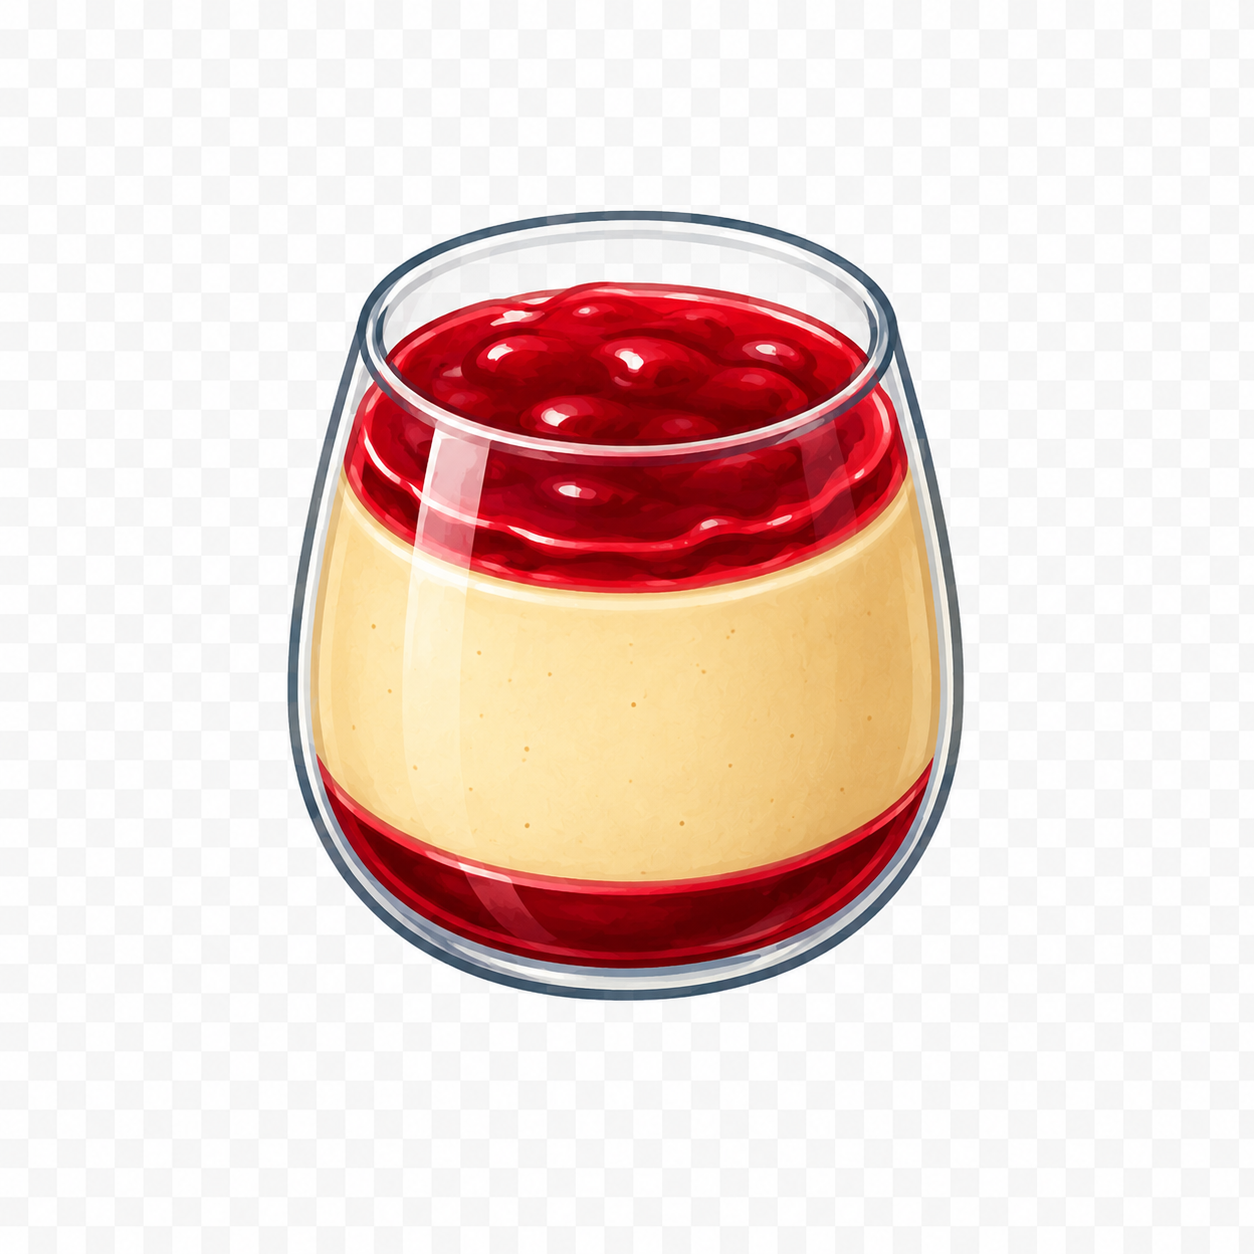
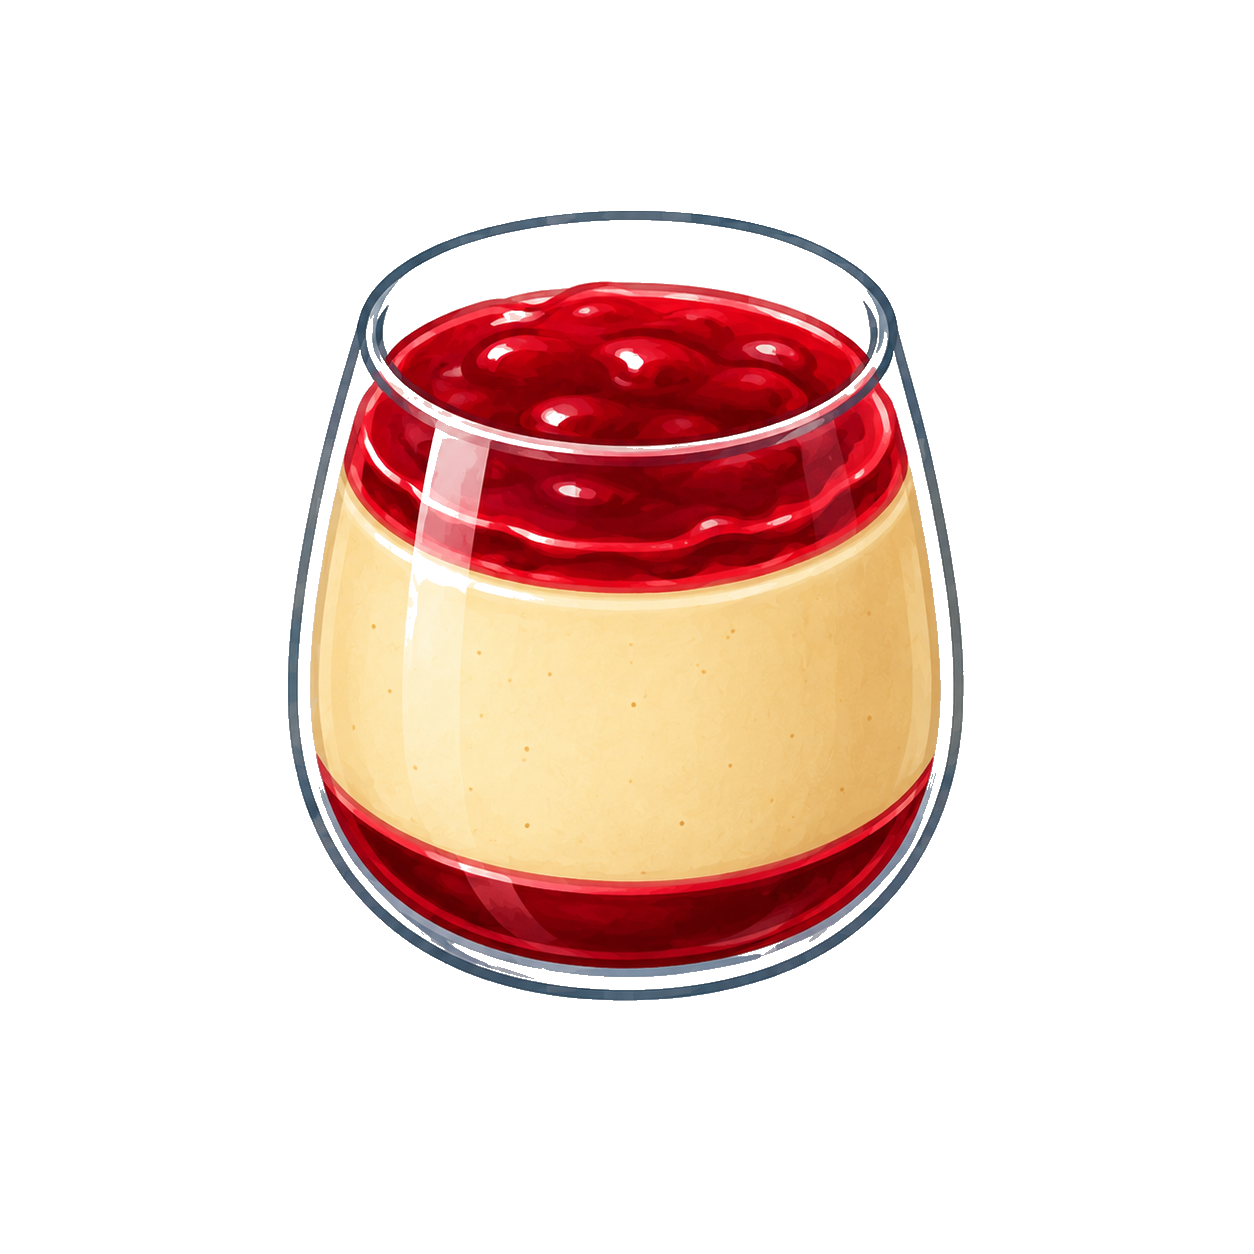
Fix game1 asset transparency: remove baked-in white/checkerboard backgrounds
All 7 game1 PNGs had hasAlpha=false (plain RGB, no alpha channel).
Backgrounds were baked as white/checkerboard pixel data, causing visible
white rectangles around every object in the game canvas.

Fix: three-pass background removal using sharp
  1. Edge flood-fill from all 4 borders (removed 71-94% of pixels)
  2. Global achromatic removal of remaining checkerboard residuals
     (pure white >248 and neutral gray 192-218)
  3. Iterative inward expansion: any bright neutral pixel adjacent to
     transparent is made transparent — clears enclosed interior regions
     (e.g. glass interior of cup above panna cotta fill)

Result: all assets are now 32-bit RGBA PNGs with proper alpha.
Objects render as clean cut-outs on the kitchen background canvas.

Also adds debug-assets.html: renders all assets on #C2185B pink
background so any remaining white rectangle would be immediately visible.

diff --git a/www/italy/debug-assets.html b/www/italy/debug-assets.html
@@ -1,0 +1,146 @@
+<!DOCTYPE html>
+<html lang="he" dir="rtl">
+<head>
+<meta charset="UTF-8">
+<meta name="viewport" content="width=device-width, initial-scale=1.0">
+<title>Debug – Asset Transparency Check</title>
+<style>
+body { margin: 0; background: #111; font-family: monospace; color: #fff; }
+h1 { text-align: center; padding: 16px; font-size: 14px; color: #aaa; letter-spacing: 2px; }
+.row { display: flex; flex-wrap: wrap; gap: 16px; justify-content: center; padding: 0 16px 32px; }
+.cell { display: flex; flex-direction: column; align-items: center; gap: 8px; }
+.box {
+  background: #C2185B;
+  border-radius: 12px;
+  display: flex;
+  align-items: center;
+  justify-content: center;
+  padding: 12px;
+}
+.box img {
+  max-width: 120px;
+  max-height: 180px;
+  object-fit: contain;
+  background: transparent;
+  border: none;
+  display: block;
+}
+.label { font-size: 10px; color: #888; text-align: center; max-width: 140px; word-break: break-all; }
+.pass { color: #4CAF50; font-weight: bold; }
+.fail { color: #F44336; font-weight: bold; }
+.rule { text-align: center; padding: 8px 16px 20px; font-size: 12px; color: #666; }
+
+/* Canvas section */
+.canvas-section { text-align: center; padding: 16px; }
+canvas { border-radius: 12px; }
+</style>
+</head>
+<body>
+<h1>ASSET TRANSPARENCY DEBUG — DARK PINK BACKGROUND (#C2185B)</h1>
+<div class="rule">
+  PASS: asset appears as clean cut-out — no white box, no checkerboard box visible<br>
+  FAIL: any rectangular white or checkerboard background is visible around the asset
+</div>
+
+<div class="row" id="grid"></div>
+
+<div class="canvas-section">
+  <h2 style="font-size:12px;color:#aaa;margin-bottom:12px">CANVAS RENDERING TEST</h2>
+  <canvas id="cv"></canvas>
+</div>
+
+<script>
+const ASSETS = [
+  { key: 'bottle',    src: 'assets/game1/pomegranate_syrup_bottle.png' },
+  { key: 'cupEmpty',  src: 'assets/game1/panna_cotta_cup.png' },
+  { key: 'cupFilled', src: 'assets/game1/panna_cotta_cup_filled.png' },
+  { key: 'stream',    src: 'assets/game1/syrup_stream.png' },
+  { key: 'splash',    src: 'assets/game1/syrup_splash.png' },
+  { key: 'heart',     src: 'assets/game1/heart.png' },
+  { key: 'tray',      src: 'assets/game1/wooden_tray.png' },
+  { key: 'bg',        src: 'assets/game1/bg_panna_kitchen.png' },
+];
+
+const grid = document.getElementById('grid');
+
+ASSETS.forEach(({ key, src }) => {
+  const cell = document.createElement('div');
+  cell.className = 'cell';
+
+  const box = document.createElement('div');
+  box.className = 'box';
+
+  const img = document.createElement('img');
+  img.src = src;
+  img.alt = key;
+  img.onerror = () => { box.style.outline = '2px solid red'; label.innerHTML = '❌ NOT FOUND<br>' + src; };
+
+  const label = document.createElement('div');
+  label.className = 'label';
+  label.textContent = src.split('/').pop();
+
+  box.appendChild(img);
+  cell.appendChild(box);
+  cell.appendChild(label);
+  grid.appendChild(cell);
+});
+
+// Canvas test: draw each asset on a dark-pink-filled canvas
+const cv = document.getElementById('cv');
+const ctx = cv.getContext('2d');
+const dpr = window.devicePixelRatio || 1;
+const CW = Math.min(window.innerWidth - 32, 700);
+const CH = 220;
+cv.width  = CW * dpr;
+cv.height = CH * dpr;
+cv.style.width  = CW + 'px';
+cv.style.height = CH + 'px';
+ctx.setTransform(dpr, 0, 0, dpr, 0, 0);
+
+const imgs = {};
+let loaded = 0;
+
+ASSETS.forEach(({ key, src }) => {
+  const i = new Image();
+  i.onload  = () => { imgs[key] = i; if (++loaded === ASSETS.length) renderCanvas(); };
+  i.onerror = () => { imgs[key] = null; if (++loaded === ASSETS.length) renderCanvas(); };
+  i.src = src;
+});
+
+function renderCanvas() {
+  // Dark pink background
+  ctx.fillStyle = '#C2185B';
+  ctx.fillRect(0, 0, CW, CH);
+
+  const pad = 20, gap = 16;
+  let x = pad;
+
+  function drawAsset(key, label, w, h) {
+    const img = imgs[key];
+    if (!img) return;
+    ctx.drawImage(img, x, (CH - h) / 2, w, h);
+    ctx.fillStyle = 'rgba(255,255,255,0.7)';
+    ctx.font = '9px monospace';
+    ctx.textAlign = 'center';
+    ctx.fillText(label, x + w/2, CH - 6);
+    x += w + gap;
+  }
+
+  drawAsset('bottle',    'bottle',   50,  90);
+  drawAsset('cupEmpty',  'cup',      60,  66);
+  drawAsset('cupFilled', 'filled',   60,  66);
+  drawAsset('stream',    'stream',   18, 160);
+  drawAsset('splash',    'splash',   80,  80);
+  drawAsset('heart',     'heart',    36,  36);
+  // tray as a horizontal strip
+  if (imgs.tray) {
+    ctx.drawImage(imgs.tray, pad, CH * 0.72, CW - pad * 2, 32);
+    ctx.fillStyle = 'rgba(255,255,255,0.7)';
+    ctx.font = '9px monospace';
+    ctx.textAlign = 'center';
+    ctx.fillText('tray (full-width strip)', CW / 2, CH - 6);
+  }
+}
+</script>
+</body>
+</html>
